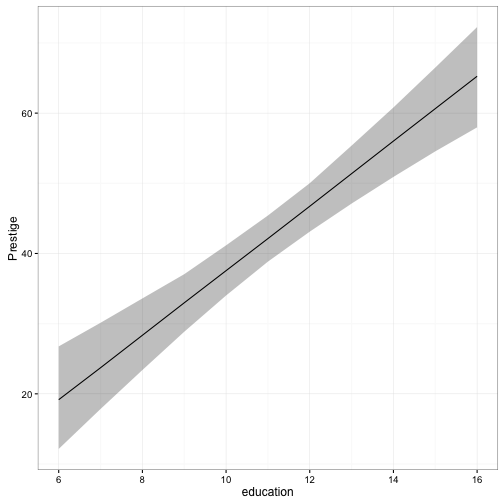
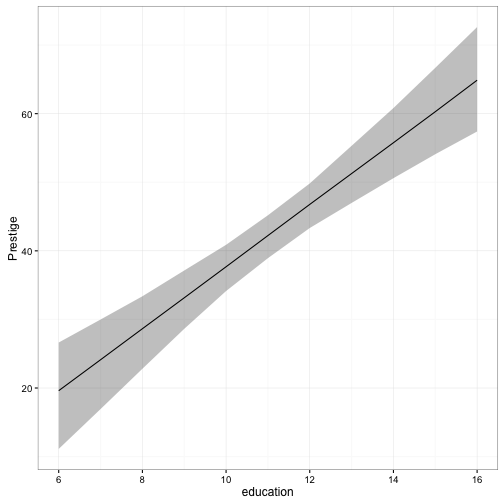
README motivation update

diff --git a/README.md b/README.md
@@ -3,19 +3,38 @@
 Version: 0.1.0 [![Build Status](https://travis-ci.org/christophergandrud/coreSim.svg?branch=master)](https://travis-ci.org/christophergandrud/coreSim)
 [![codecov.io](https://codecov.io/github/christophergandrud/coreSim/coverage.svg?branch=master)](https://codecov.io/github/christophergandrud/coreSim?branch=master)
 
-> Core functionality for simulating quantities of interest from generalised linear 
-models.
+> Core functionality for simulating quantities of interest from generalised 
+linear models.
 
-## Purpose
+# Purpose
 
 Using simulations to find quantities of interest and associated uncertainty
 can be an effective way of showing substantively meaningful results from 
 generalised linear models (GLM). 
 
-This R package provides core functions that can serve as the backbone to other
+This R package provides core functions that can serve as the **backbone** to other
 packages for finding and plotting simulated quantities of interest from GLMs.
 
-## Steps
+# Motivation
+
+**coreSim** aims to solve a number of issues that arose in prior implementations of 
+the simulation approach to showing GLM results. The main previous implementation in R is the **Zelig** package. This package has tried to be "Everyone's statistical software". However, paradoxically, its attempt to be everything to everyone has led to less flexibility for new use cases. Maintaining such a large project over time has led to (in my experience) frequent code breaks. The Zelig 'API' has changed considerably over time in often undocumented ways. Changes to its many dependencies also undermines its reliability. 
+
+**coreSim** aims to overcome these issue with a focus on *simplicity*. It tries to:
+
+- Do a few things really well.
+
+- Have as few dependencies as possible. Only import packages if they make significant performance improvements over what is available in base R.
+
+- Return simple `data.frame` output. 
+
+- Have informative error messages that are easy for users to understand.
+
+Additionally, **coreSim** is aiming for very high reliability. Simplicity helps with this, so does aiming for 100% code test coverage.
+
+These characteristics allow **coreSim** to form the backbone of many specific and unanticipated implementations of the simulation approach. 
+
+# Steps
 
 1. Estimate your model using whatever GLM model fitting function you like 
 (note: I've only tested `lm`, `glm`, and `survival`).
@@ -27,7 +46,9 @@ packages for finding and plotting simulated quantities of interest from GLMs.
 4. Present your results, e.g. by plotting the simulated quantities of 
 interest.
 
-## Example: Normal linear model 
+# Examples
+
+# Normal linear model 
 
 Here is an example using data from the **car** package:
 
@@ -58,12 +79,12 @@ head(linear_qi)
 
 ```
 ##   education typewc      qi_
-## 1         6      1 23.72009
-## 2         6      1 18.78262
-## 3         6      1 20.72840
-## 4         6      1 22.09607
-## 5         6      1 13.15539
-## 6         6      1 14.51539
+## 1         6      1 23.86142
+## 2         6      1 26.01271
+## 3         6      1 16.30275
+## 4         6      1 22.00607
+## 5         6      1 14.49881
+## 6         6      1 21.45767
 ```
 
 ### Slimmed simulation data
@@ -86,12 +107,12 @@ head(linear_qi_slim)
 
 ```
 ##   education typewc   qi_min qi_median   qi_max
-## 1         6      1 12.15064  19.16694 26.76069
-## 2         7      1 17.84503  23.71980 30.12726
-## 3         8      1 23.39278  28.34454 33.59529
-## 4         9      1 28.84553  32.96956 37.04962
-## 5        10      1 34.01164  37.55099 41.15894
-## 6        11      1 38.83801  42.12270 45.40941
+## 1         6      1 11.11931  19.61080 26.63241
+## 2         7      1 16.93065  24.12030 29.98785
+## 3         8      1 22.80573  28.64483 33.37335
+## 4         9      1 28.62670  33.15211 37.13480
+## 5        10      1 34.13727  37.67678 40.87820
+## 6        11      1 38.93051  42.22595 45.18545
 ```
 
 The slimmed simulation data set can be efficiently plotted, for example using
@@ -110,7 +131,7 @@ ggplot(linear_qi_slim, aes(education, qi_median)) +
 
 ![plot of chunk unnamed-chunk-3](figure/unnamed-chunk-3-1.png)
 
-## Example: Predicted probabilities from logistic regressions
+# Predicted probabilities from logistic regressions
 
 By default `qi_builder` simply returns the linear systematic component, which 
 in normal linear regression is simply the predicted y, i.e. 
@@ -155,17 +176,17 @@ head(logistic_qi)
 
 ```
 ##   gre gpa rank4      qi_min  qi_median     qi_max
-## 1 220   1     1 0.002783753 0.01441787 0.06931141
-## 2 230   1     1 0.002893225 0.01484138 0.06995180
-## 3 240   1     1 0.002984259 0.01525987 0.07059767
-## 4 250   1     1 0.003033161 0.01565690 0.07161055
-## 5 260   1     1 0.003122336 0.01605837 0.07303662
-## 6 270   1     1 0.003214124 0.01645415 0.07437871
+## 1 220   1     1 0.003097302 0.01351713 0.06043906
+## 2 230   1     1 0.003161466 0.01376257 0.06145524
+## 3 240   1     1 0.003226954 0.01416744 0.06248736
+## 4 250   1     1 0.003293795 0.01453725 0.06400426
+## 5 260   1     1 0.003381964 0.01481381 0.06618450
+## 6 270   1     1 0.003460525 0.01513022 0.06771301
 ```
 
 
 
-## See also
+# See also
 
 Christopher Gandrud (2015). simPH: An R Package for Illustrating Estimates from
 Cox Proportional Hazard Models Including for Interactive and Nonlinear Effects.
